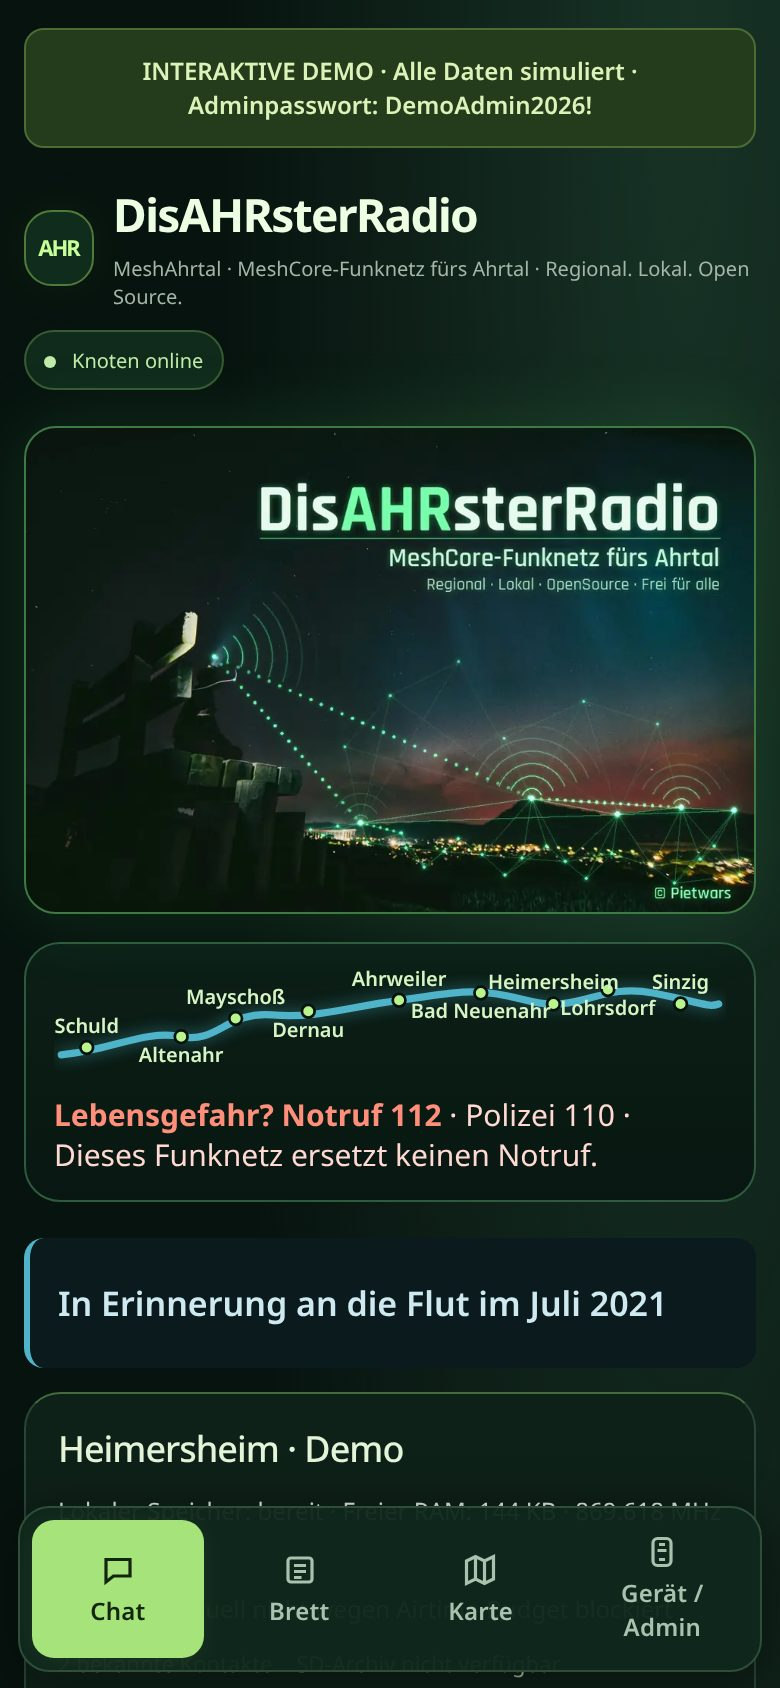
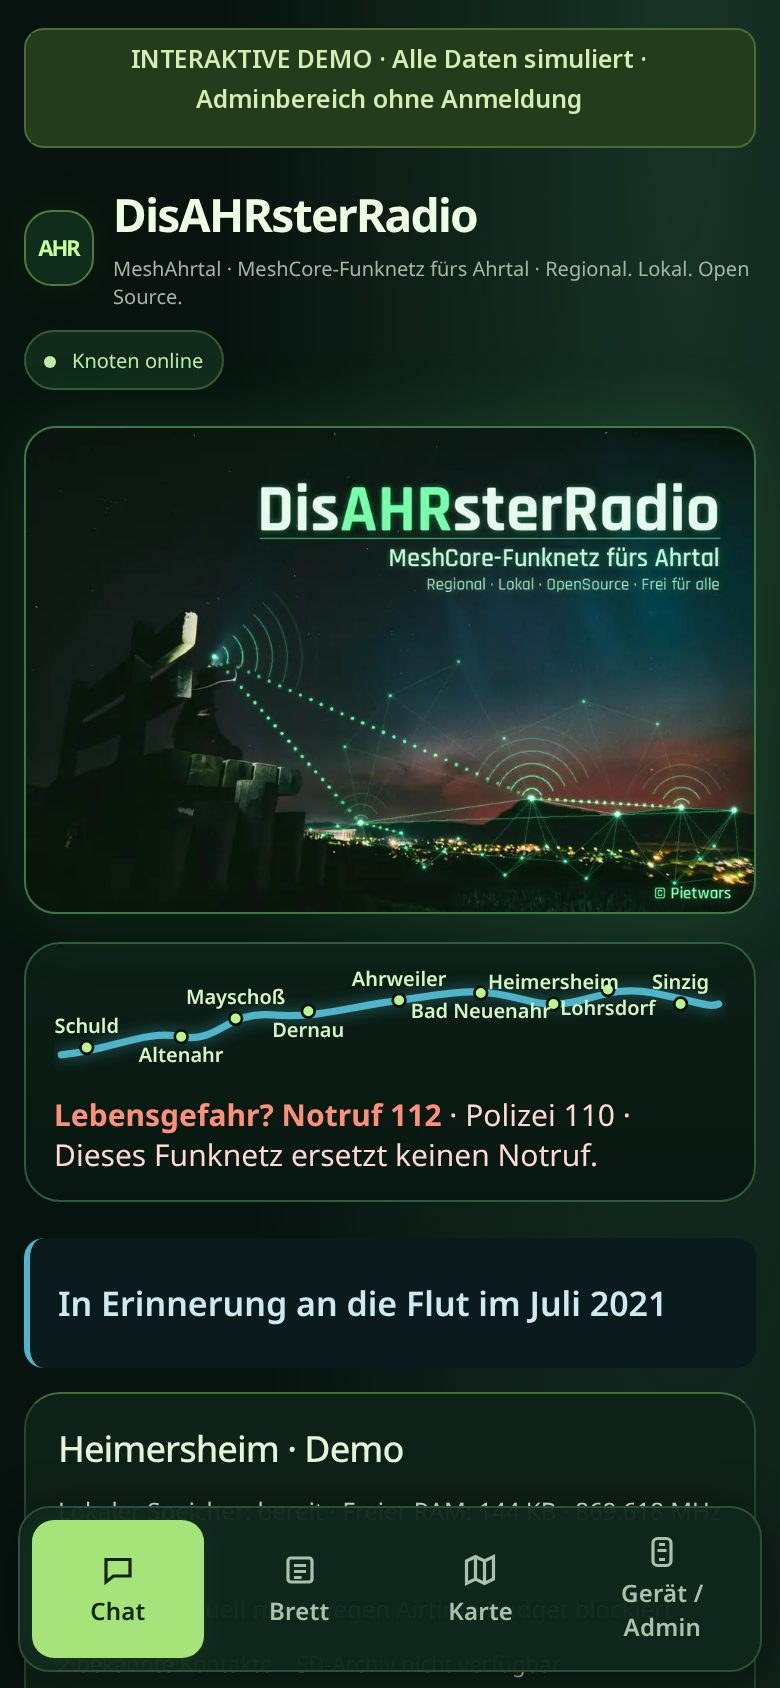
README: aktueller Stand (offenes WLAN, Bluetooth ohne PIN, Brett mit hello, Admin nur Betreiber); Reste des alten Demo-Adminpassworts aus Vorschaubildern und Tests entfernt

Changed region(s): [[0.1846, 0.0308, 0.8, 0.0924]]

diff --git a/README.md b/README.md
@@ -1,6 +1,6 @@
 # DisAHRsterRadio
 
-> **Neuer Entwicklungsstand: WLAN ohne Passwort.** MeshCore-Bluetooth verbindet ohne PIN; Konfiguration bleibt über USB/Web-Admin geschützt. [Zugang, Update und Abnahme](docs/OFFENER_ZUGANG.md). Frühere Releases/Flyer können noch Passwortzugänge beschreiben.
+> **Aktueller Stand:** offenes WLAN `DisAHRsterRadio-XXXXXX` → `http://192.168.4.1`, MeshCore-App per Bluetooth ohne PIN, Schwarzes Brett mit dem öffentlichen Gast-Passwort `hello` (sendet die Weboberfläche automatisch) – einfach verbinden, nichts eingeben. Betreiberfunktionen nur mit Admin-Passwort über USB/Adminbereich. [Zugang auf einen Blick](#zugang-auf-einen-blick) · [Zugang, Update und Abnahme](docs/OFFENER_ZUGANG.md)
 
 
 [![DisAHRsterRadio – MeshCore-Funknetz fürs Ahrtal](docs/images/disahrsterradio-header.jpg)](docs/images/disahrsterradio-header.jpg)
@@ -46,14 +46,27 @@ DisAHRsterRadio (repository DisasterMesh) is an offline LoRa mesh messenger for 
 | Standort | Ortsliste, Karte antippen, Handy-Ortung (nur in sicherem Kontext), optionales GPS-Modul; Teilen als `!DP1` mit Genauigkeit grob/mittel/fein, höchstens alle 5 Minuten. [Details](docs/GPS_UND_STANDORT.md) |
 | Offlinekarten | Ahrtal-Übersicht Quelle–Mündung, Heimersheim mit Gebäuden, Altenahr, Dernau/Ahrweiler, Sinzig; Speicherung auf dem Handy, automatische Aktualisierung bei Internet. [Karten](docs/AUTOMATISCHE_KARTEN.md) |
 | Versorgung und eigene Orte | OSM-Versorgungspunkte (Wasser, Apotheke, Feuerwehr, Arzt, Lebensmittel, WC, Unterstand), eigene POIs und Erntefundorte, GeoJSON-Import/-Export |
-| Gerät und Administration | Diagnose, Knotenname, Uhrzeit, Adminzugang, Chatkanäle, 868-MHz-Funkprofile, Verlauf löschen, optionales SD-Archiv |
+| Gerät und Administration | Diagnose, Knotenname, Uhrzeit, Adminzugang (Admin-Passwort nur für Betreiber), Chatkanäle, 868-MHz-Funkprofile, Verlauf löschen, optionales SD-Archiv |
+
+## Zugang auf einen Blick
+
+| Zugang | Aktueller Stand |
+|---|---|
+| WLAN `DisAHRsterRadio-XXXXXX` | **offen, ohne Passwort** – verbinden, `http://192.168.4.1` öffnen, nichts eingeben (höchstens 4 Handys je Board) |
+| Bluetooth (MeshCore-App) | **ohne PIN** („Just Works“) – das Handy fragt höchstens „Koppeln?“; alte Kopplung bei Bedarf am Handy entfernen |
+| Schwarzes Brett (Room-Server) | öffentliches MeshCore-Standard-Gast-Passwort **`hello`**: damit lesen und schreiben. Die Weboberfläche sendet `hello` beim „Beitreten“ automatisch, niemand muss etwas eintippen. In der MeshCore-App `hello` eingeben; ohne Passwort nur lesen |
+| Admin (nur Betreiber) | Für Betreiberfunktionen (Funkprofil, Name, Kanäle, Verwaltung von Repeater/Room-Server) gibt es ein Admin-Passwort. Es ist für jedes Gerät eigen, steht weder im Code noch in der Doku und wird nur beim ersten Start über USB (115200 Baud) angezeigt. Der Betreiber muss es dort ablesen und sicher aufbewahren oder ein eigenes setzen (im Adminbereich der Weboberfläche ändern (12–64 Zeichen); bei Repeater und Room-Server per USB-Befehl `password <neu>`). |
+
+Außer dem öffentlichen Standard `hello` stehen keine Passwörter in Code, Doku, Flyern oder der Live-Demo; die Live-Demo öffnet den Adminbereich ohne Anmeldung. Details: [Offener Zugang](docs/OFFENER_ZUGANG.md).
+
+> Hinweis: Das bisher veröffentlichte [Release v0.9.0-alpha](https://github.com/Pietwars/DisasterMesh/releases/tag/v0.9.0-alpha) ist älter als dieser Stand und enthält noch die alten Zugangsregeln (WLAN-Schlüssel, Bluetooth-PIN, eigenes Raum-Passwort). Den hier beschriebenen Stand gibt es bis zum nächsten Release als Build von `main` (Artefakte unter [Actions](https://github.com/Pietwars/DisasterMesh/actions), GitHub-Anmeldung nötig) oder selbst gebaut.
 
 ## Schnellstart
 
-1. **Demo ansehen:** [Live-Demo im Browser](https://pietwars.github.io/DisasterMesh/demo/) – Stand 0.9.0-alpha, alles simuliert, Adminbereich ohne Anmeldung. Offline: `python tools/build_demo.py` erzeugt dieselbe Demo in `docs/demo/`. Demo-ZIP und [Startpaket](docs/STARTPAKET.md) in den älteren [Releases](https://github.com/Pietwars/DisasterMesh/releases) sind ältere Stände (Demo 0.8.0, Startpaket 0.7.1.1).
+1. **Demo ansehen:** [Live-Demo im Browser](https://pietwars.github.io/DisasterMesh/demo/) – Stand 0.9.0-alpha, alles simuliert, Adminbereich ohne Anmeldung. Offline: `python tools/build_demo.py` erzeugt dieselbe Demo in `docs/demo/`. Demo-ZIPs und Startpakete in den älteren [Releases](https://github.com/Pietwars/DisasterMesh/releases) (0.7.x/0.8.0) sind veraltet und beschreiben noch den früheren Demo-Adminzugang – bitte die Live-Demo oder `tools/build_demo.py` verwenden. [Startpaket](docs/STARTPAKET.md)
 2. **Firmware:** Vorabversion [v0.9.0-alpha](https://github.com/Pietwars/DisasterMesh/releases/tag/v0.9.0-alpha) mit je einem Paket für T3-S3 V1.3 (SX1262, WLAN-Portal), T3 V1.6.1 und Heltec V2 (`…-factory.bin`, Einzelteile, `SHA256SUMS`, deutsche `ANLEITUNG.md`). Weitere Profile (Repeater, Room-Server, SD, GPS, SX1276): Builds der Workflows „Build T3-S3 V1.3“ und „Build DisAHRsterRadio TTGO“ unter [Actions](https://github.com/Pietwars/DisasterMesh/actions) (GitHub-Anmeldung nötig) oder selbst bauen (siehe unten). [Flashen mit Sicherung](docs/SX1262_PAKET.md) · [Startpaket und Windows](docs/STARTPAKET.md)
 3. Vorherige Firmware und Einstellungen **lokal sichern**. Bei bestehender DisAHRsterRadio-Installation gleicher Rolle nur die Anwendung aktualisieren, **kein `uploadfs`**.
-4. Optional (nur Betreiber): USB-Seriellmonitor (115200 Baud) öffnen und die einmalig angezeigten Admin-Zugangsdaten lokal aufbewahren. Für das WLAN muss nichts eingegeben werden.
+4. Nur Betreiber: USB-Seriellmonitor (115200 Baud) öffnen und das beim ersten Start angezeigte Admin-Passwort sicher aufbewahren oder ein eigenes setzen. Für WLAN, Bluetooth und Brett muss niemand etwas eingeben.
 5. Handy mit `DisAHRsterRadio-XXXXXX` verbinden, `http://192.168.4.1` öffnen. [Web-App auf dem iPhone](docs/AHRTAL_WEBAPP.md)
 6. Knoten benennen, Uhr übernehmen, Funkprofil und Kanäle auf allen Boards abstimmen.
 7. Erst zwei Boards direkt testen, dann Repeater und Room-Server ergänzen. [Abnahmeprotokoll](docs/ABNAHME_ZWEI_BOARDS.md)
@@ -82,7 +95,7 @@ Weitere Boards und Profile:
 | Heltec WiFi LoRa 32 V2 (SX1276) | WLAN-Portal (WLAN 8,5 dBm, 2 s später gestartet) | `disaster_heltec_v2_sx1276_wifi` | baut; Brownout-Problem bekannt |
 | Heltec WiFi LoRa 32 V2 | Diagnose (Boot-Marker seriell) | `disaster_heltec_v2_sx1276_wifi_diag` | baut |
 
-Firmware nie auf eine andere Funkchip-Variante flashen. Meshtastic-Knoten sprechen nicht mit MeshCore. WLAN-Name `DisAHRsterRadio-XXXXXX`. Das WLAN ist offen – einfach verbinden, nichts eingeben.
+Firmware nie auf eine andere Funkchip-Variante flashen. Meshtastic-Knoten sprechen nicht mit MeshCore. WLAN-Name `DisAHRsterRadio-XXXXXX`. Das WLAN ist offen – einfach verbinden, nichts eingeben. Der Room-Server (Board E) nutzt das öffentliche Gast-Passwort `hello`.
 
 **Optionales GPS-Modul** (NMEA, 9600 Baud, z. B. ATGM336H, NEO-6M, L76K) – nicht an Hardware geprüft:
 
